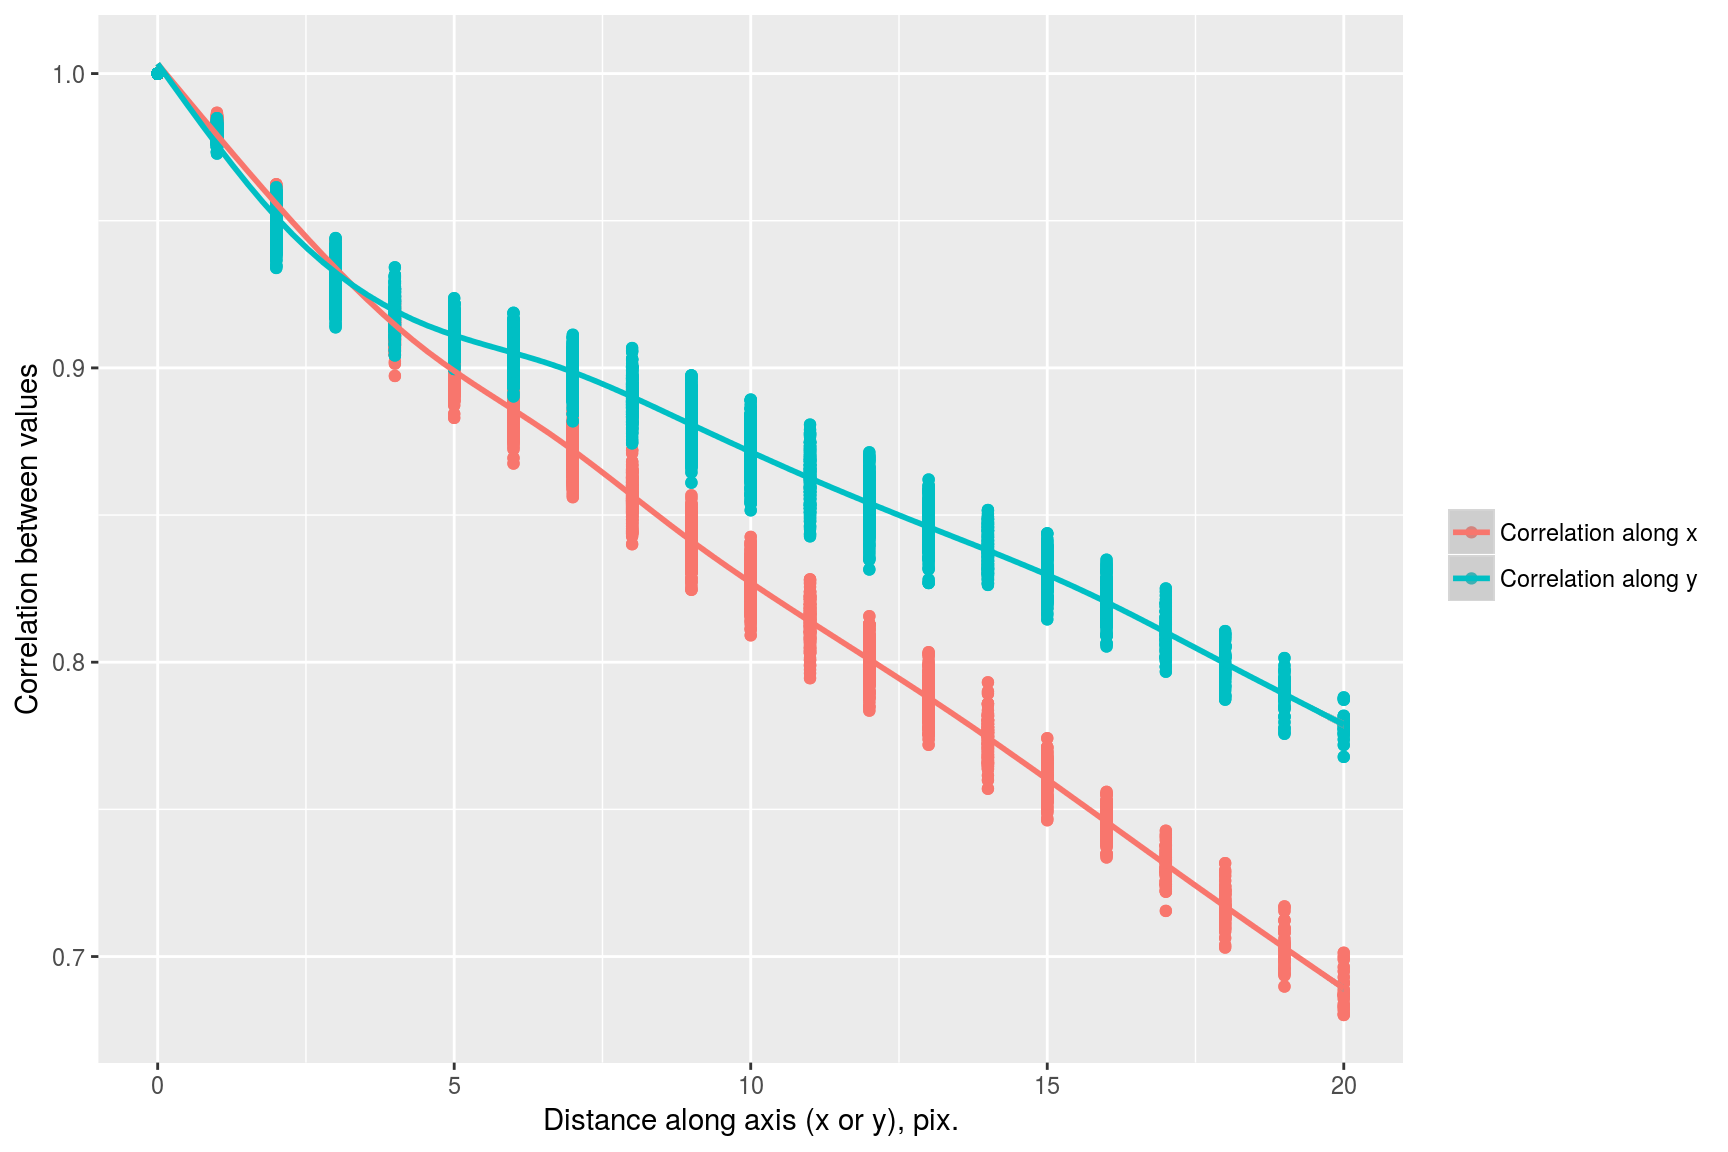
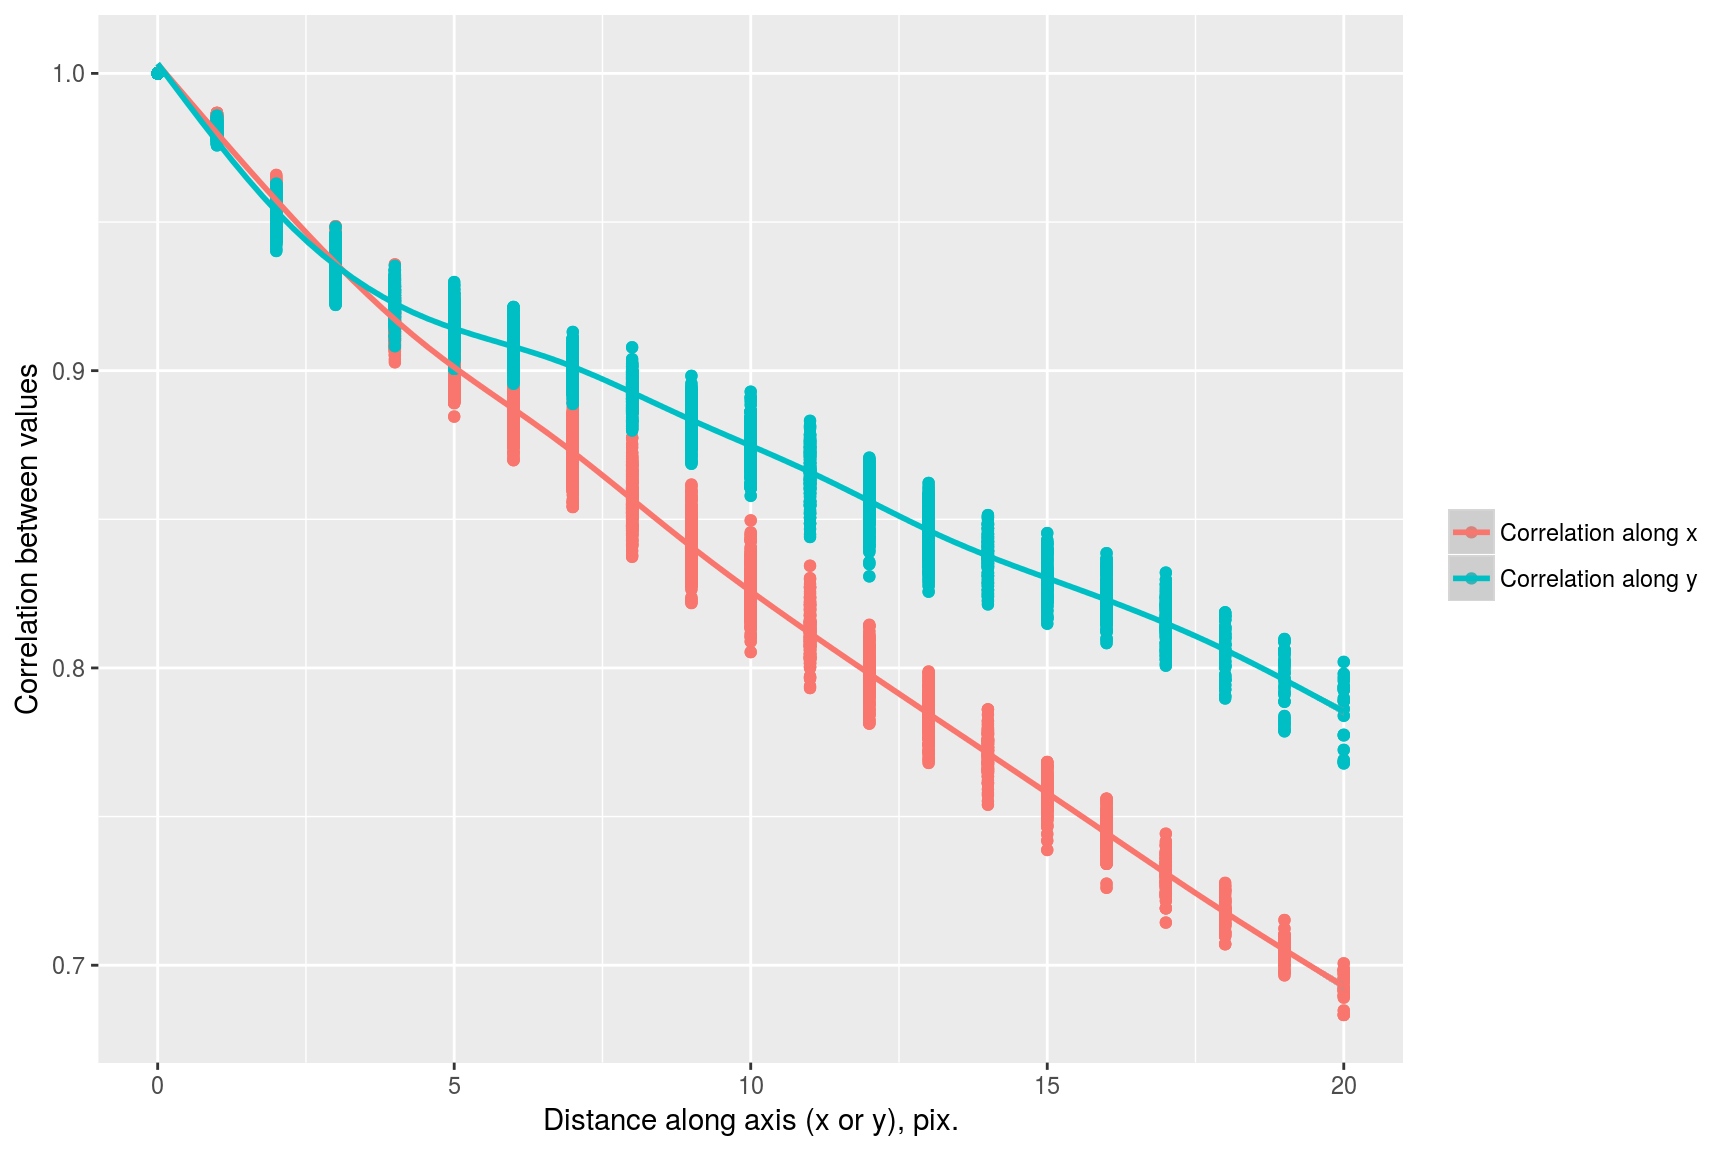
fixed error in image_stats

diff --git a/image_stats.html b/image_stats.html
@@ -4,7 +4,7 @@
 
 <head>
 
-<meta charset="utf-8">
+<meta charset="utf-8" />
 <meta http-equiv="Content-Type" content="text/html; charset=utf-8" />
 <meta name="generator" content="pandoc" />
 
@@ -159,13 +159,13 @@ pos &lt;- cbind(pos.x,pos.y)</code></pre>
 <pre class="r"><code>val &lt;- alply(pos,1,function(v) get.stencil(im.bw,stencil,x=v[1],y=v[2]))
 head(val,3)</code></pre>
 <pre><code>## $`1`
-## [1] 0.3766275 0.3844706 0.3884314
+## [1] 0.1814510 0.1814510 0.1645882
 ## 
 ## $`2`
-## [1] 0.3083922 0.3398039 0.3080392
+## [1] 0.2507843 0.2507843 0.2445490
 ## 
 ## $`3`
-## [1] 0.3556471 0.3521961 0.3512941</code></pre>
+## [1] 0.6010196 0.6536471 0.4796471</code></pre>
 <p>In each element of the list, the first value corresponds to the value of the central pixel, the second to the left-hand neighbour and the third to the right-hand neighbour. We transform the list to a matrix and plot the value of the neighbours as a function of the value of the central pixel:</p>
 <pre class="r"><code>mat &lt;- do.call(rbind,val)
 plot(mat[,1],mat[,2],xlab=&quot;Central value&quot;,ylab=&quot;Left-hand neighbour&#39;s value&quot; )</code></pre>
@@ -175,9 +175,9 @@ plot(mat[,1],mat[,2],xlab=&quot;Central value&quot;,ylab=&quot;Left-hand neighbo
 <p>As the scatterplots suggest, neighbouring pixels tend to be highly correlated:</p>
 <pre class="r"><code>cor(mat)</code></pre>
 <pre><code>##           [,1]      [,2]      [,3]
-## [1,] 1.0000000 0.9874034 0.9866582
-## [2,] 0.9874034 1.0000000 0.9607263
-## [3,] 0.9866582 0.9607263 1.0000000</code></pre>
+## [1,] 1.0000000 0.9830363 0.9740668
+## [2,] 0.9830363 1.0000000 0.9413911
+## [3,] 0.9740668 0.9413911 1.0000000</code></pre>
 <p>We can repeat the analysis using neighbours that are further away:</p>
 <pre class="r"><code>stencil &lt;- data.frame(dx=c(0,-4,4),dy=c(0,0,0)) #Selects neighbours that are 4 pixels away in x direction
 pos.x &lt;- round(runif(500,5,width(im)-4))
@@ -185,9 +185,9 @@ pos &lt;- cbind(pos.x,pos.y)
 mat &lt;- alply(pos,1,function(v) get.stencil(im.bw,stencil,x=v[1],y=v[2])) %&gt;% do.call(rbind,.)
 cor(mat)</code></pre>
 <pre><code>##           [,1]      [,2]      [,3]
-## [1,] 1.0000000 0.9378854 0.9177442
-## [2,] 0.9378854 1.0000000 0.8570731
-## [3,] 0.9177442 0.8570731 1.0000000</code></pre>
+## [1,] 1.0000000 0.9280383 0.9317816
+## [2,] 0.9280383 1.0000000 0.8437736
+## [3,] 0.9317816 0.8437736 1.0000000</code></pre>
 <p>Here the correlation coefficients (1,2) and (1,3) represent correlations between pixels that are 4 units away (~ 98%), while coefficient (2,3) represents a correlation between pixels that are 8 units away (~ 94%). Correlation then seems to drop as a function of distance. We can make a more systematic analysis using a wider stencil:</p>
 <pre class="r"><code>stencil &lt;- expand.grid(dx=seq(-10,10,1),dy=seq(-10,10,1))
 head(stencil,4)</code></pre>
@@ -215,8 +215,8 @@ df &lt;- data.frame(dist.x = c(Dx),dist.y = c(Dy), cor = c(C))
 head(df,3)</code></pre>
 <pre><code>##   dist.x dist.y       cor
 ## 1      0      0 1.0000000
-## 2      1      0 0.9819809
-## 3      2      0 0.9515344</code></pre>
+## 2      1      0 0.9844027
+## 3      2      0 0.9548674</code></pre>
 <p>Plotting the results:</p>
 <pre class="r"><code>library(ggplot2)
 ggplot(df,aes(dist.x,dist.y))+geom_point(aes(size=cor))</code></pre>
@@ -285,7 +285,7 @@ plot(impulse,main=&quot;Dirac image&quot;)</code></pre>
 <pre class="r"><code>correlogram &lt;- function(im,pos)
     {
         #A cross-shaped stencil
-        stencil &lt;- data.frame(dx=c(seq(-10,10,1),rep(0,11)),dy=c(rep(0,11),seq(-10,10,1)))
+        stencil &lt;- data.frame(dx=c(seq(-10,10,1),rep(0,21)),dy=c(rep(0,21),seq(-10,10,1))) %&gt;% unique
         mat &lt;- alply(pos,1,function(v) get.stencil(im,stencil,x=v[1],y=v[2])) %&gt;% do.call(rbind,.)
         Dx &lt;- dist(stencil$dx) %&gt;% as.matrix #Distance along the x axis
         Dy &lt;- dist(stencil$dy) %&gt;% as.matrix #Distance along the y axis

diff --git a/image_stats_files/navigation-1.1/tabsets.js b/image_stats_files/navigation-1.1/tabsets.js
@@ -1,5 +1,52 @@
 
 
+/**
+ * jQuery Plugin: Sticky Tabs
+ *
+ * @author Aidan Lister <aidan@php.net>
+ * adapted by Ruben Arslan to activate parent tabs too
+ * http://www.aidanlister.com/2014/03/persisting-the-tab-state-in-bootstrap/
+ */
+(function($) {
+  "use strict";
+  $.fn.rmarkdownStickyTabs = function() {
+    var context = this;
+    // Show the tab corresponding with the hash in the URL, or the first tab
+    var showStuffFromHash = function() {
+      var hash = window.location.hash;
+      var selector = hash ? 'a[href="' + hash + '"]' : 'li.active > a';
+      var $selector = $(selector, context);
+      if($selector.data('toggle') === "tab") {
+        $selector.tab('show');
+        // walk up the ancestors of this element, show any hidden tabs
+        $selector.parents('.section.tabset').each(function(i, elm) {
+          var link = $('a[href="#' + $(elm).attr('id') + '"]');
+          if(link.data('toggle') === "tab") {
+            link.tab("show");
+          }
+        });
+      }
+    };
+
+
+    // Set the correct tab when the page loads
+    showStuffFromHash(context);
+
+    // Set the correct tab when a user uses their back/forward button
+    $(window).on('hashchange', function() {
+      showStuffFromHash(context);
+    });
+
+    // Change the URL when tabs are clicked
+    $('a', context).on('click', function(e) {
+      history.pushState(null, null, this.href);
+      showStuffFromHash(context);
+    });
+
+    return this;
+  };
+}(jQuery));
+
 window.buildTabsets = function(tocID) {
 
   // build a tabset from a section div with the .tabset class
@@ -80,6 +127,9 @@ window.buildTabsets = function(tocID) {
     active.addClass('active');
     if (fade)
       active.addClass('in');
+
+    if (tabset.hasClass("tabset-sticky"))
+      tabset.rmarkdownStickyTabs();
   }
 
   // convert section divs with the .tabset class to tabsets
